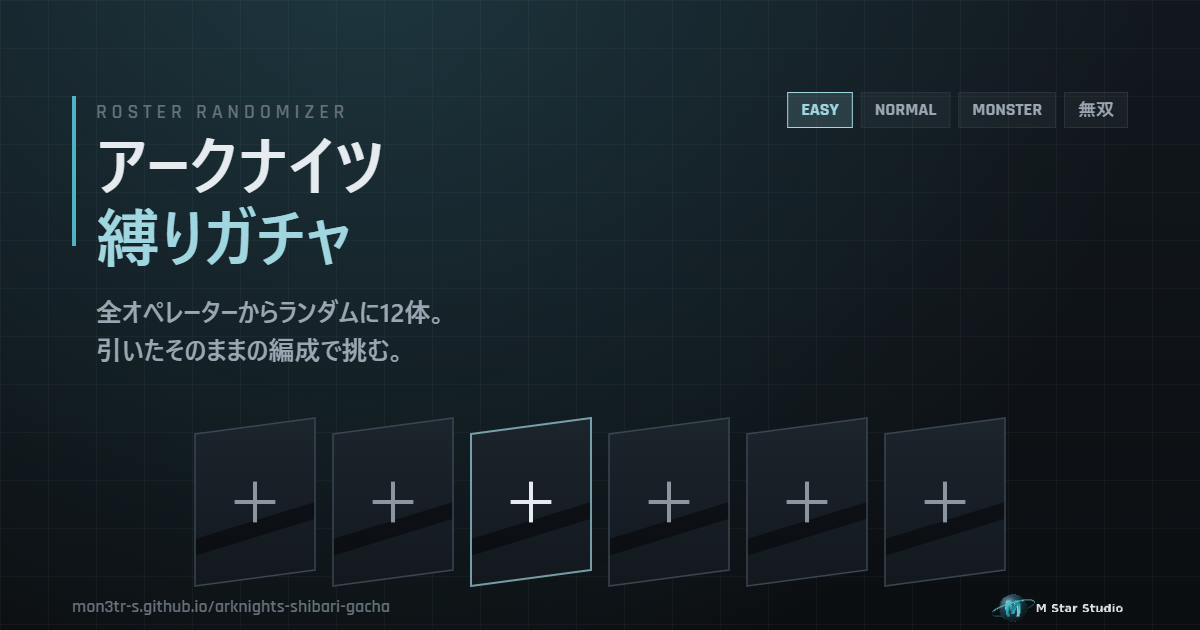
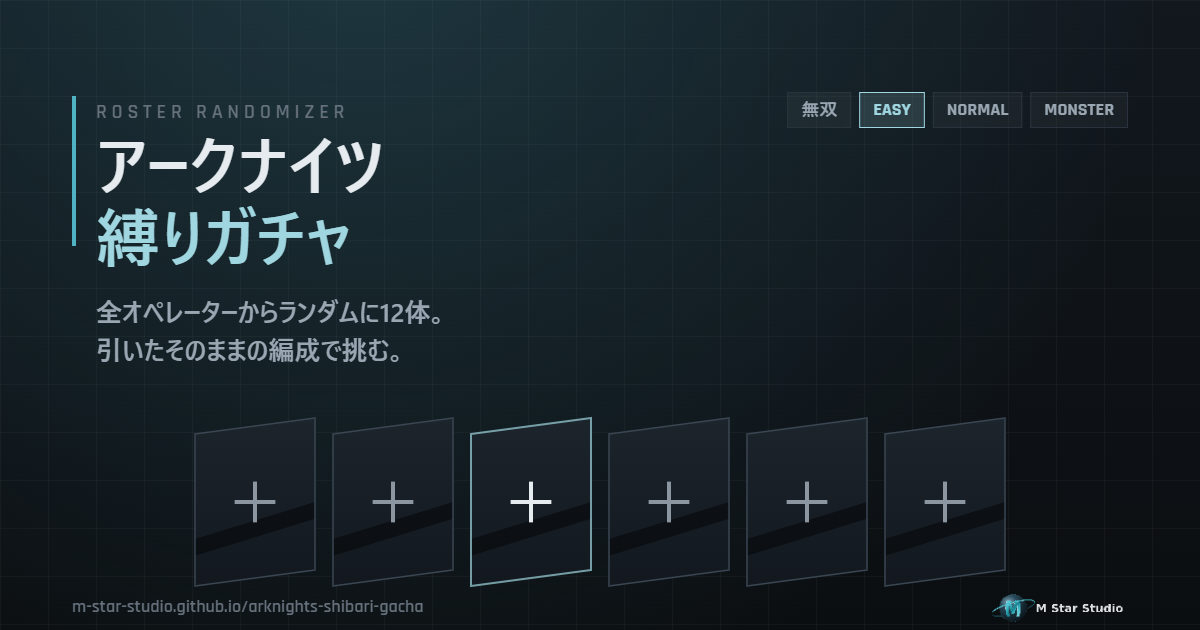
M-STAR-STUDIO へ移管: 公開URLを m-star-studio.github.io に変更、OGP画像を再生成

Changed region(s): [[0.0617, 0.9349, 0.3392, 0.9952], [0.6475, 0.1508, 0.925, 0.2111]]

diff --git a/index.html b/index.html
@@ -6,19 +6,19 @@
 <title>アークナイツ縛りガチャ</title>
 <meta name="description" content="全オペレーターからランダムに12体を引いて、そのまま編成として遊ぶアークナイツ用の縛りプレー支援ツール。">
 <meta name="theme-color" content="#0b0e11">
-<link rel="canonical" href="https://mon3tr-s.github.io/arknights-shibari-gacha/">
+<link rel="canonical" href="https://m-star-studio.github.io/arknights-shibari-gacha/">
 <meta property="og:type" content="website">
 <meta property="og:site_name" content="アークナイツ縛りガチャ">
 <meta property="og:title" content="アークナイツ縛りガチャ">
 <meta property="og:description" content="全オペレーターからランダムに12体。引いたそのままの編成で挑む。">
-<meta property="og:url" content="https://mon3tr-s.github.io/arknights-shibari-gacha/">
-<meta property="og:image" content="https://mon3tr-s.github.io/arknights-shibari-gacha/assets/ogp.png">
+<meta property="og:url" content="https://m-star-studio.github.io/arknights-shibari-gacha/">
+<meta property="og:image" content="https://m-star-studio.github.io/arknights-shibari-gacha/assets/ogp.png">
 <meta property="og:image:width" content="1200">
 <meta property="og:image:height" content="630">
 <meta name="twitter:card" content="summary_large_image">
 <meta name="twitter:title" content="アークナイツ縛りガチャ">
 <meta name="twitter:description" content="全オペレーターからランダムに12体。引いたそのままの編成で挑む。">
-<meta name="twitter:image" content="https://mon3tr-s.github.io/arknights-shibari-gacha/assets/ogp.png">
+<meta name="twitter:image" content="https://m-star-studio.github.io/arknights-shibari-gacha/assets/ogp.png">
 <link rel="icon" href="assets/favicon.svg" type="image/svg+xml">
 <link rel="preconnect" href="https://cdn.jsdelivr.net" crossorigin>
 <link rel="preconnect" href="https://fonts.googleapis.com">

diff --git a/js/ogp.js b/js/ogp.js
@@ -92,19 +92,20 @@ export async function renderOgp() {
   for (let i = 0; i < 6; i++) emptySlot(ctx, sx + i * (sw + gap), sy, sw, sh, cut, i === 2);
 
   // difficulty chips top-right
-  const chips = ['EASY', 'NORMAL', 'MONSTER', '無双'];
+  const chips = ['無双', 'EASY', 'NORMAL', 'MONSTER'];
+  const active = 1; // EASY is the default mode
   ctx.textAlign = 'right';
   let cxr = W - 72;
   for (let i = chips.length - 1; i >= 0; i--) {
     const isJp = /[^\x00-\x7F]/.test(chips[i]);
     ctx.font = isJp ? `700 18px ${JP_FONT}` : `700 18px ${LATIN_FONT}`;
     const tw = ctx.measureText(chips[i]).width + 28;
-    ctx.fillStyle = i === 0 ? 'rgba(159,214,224,0.16)' : 'rgba(255,255,255,0.04)';
+    ctx.fillStyle = i === active ? 'rgba(159,214,224,0.16)' : 'rgba(255,255,255,0.04)';
     ctx.fillRect(cxr - tw, 92, tw, 36);
-    ctx.strokeStyle = i === 0 ? '#9fd6e0' : '#2a333d';
+    ctx.strokeStyle = i === active ? '#9fd6e0' : '#2a333d';
     ctx.lineWidth = 1;
     ctx.strokeRect(cxr - tw + 0.5, 92.5, tw - 1, 35);
-    ctx.fillStyle = i === 0 ? '#9fd6e0' : '#9aa7b3';
+    ctx.fillStyle = i === active ? '#9fd6e0' : '#9aa7b3';
     ctx.textBaseline = 'middle';
     ctx.fillText(chips[i], cxr - 14, 111);
     cxr -= tw + 8;
@@ -115,7 +116,7 @@ export async function renderOgp() {
   ctx.textBaseline = 'middle';
   ctx.fillStyle = '#66717c';
   ctx.font = `600 18px ${LATIN_FONT}`;
-  ctx.fillText('mon3tr-s.github.io/arknights-shibari-gacha', 72, H - 22);
+  ctx.fillText('m-star-studio.github.io/arknights-shibari-gacha', 72, H - 22);
   if (logo) {
     const lh = 44;
     const lw = lh * (logo.naturalWidth / logo.naturalHeight);

diff --git a/js/share.js b/js/share.js
@@ -2,7 +2,7 @@
 import { MODES } from './gacha.js';
 import { avatarUrl, classIconUrl, loadImage, CLASS_SHORT } from './assets.js';
 
-export const SITE_URL = 'https://mon3tr-s.github.io/arknights-shibari-gacha/';
+export const SITE_URL = 'https://m-star-studio.github.io/arknights-shibari-gacha/';
 export const HASHTAG = '#アークナイツ縛りガチャ';
 
 const W = 1600, H = 900;

diff --git a/README.md b/README.md
@@ -2,7 +2,7 @@
 
 全オペレーターからランダムに12体を引き、そのまま編成として遊ぶための非公式ファンツール。
 
-- 公開URL: https://mon3tr-s.github.io/arknights-shibari-gacha/
+- 公開URL: https://m-star-studio.github.io/arknights-shibari-gacha/
 - 制作: M Star Studio
 
 ## 仕組み
